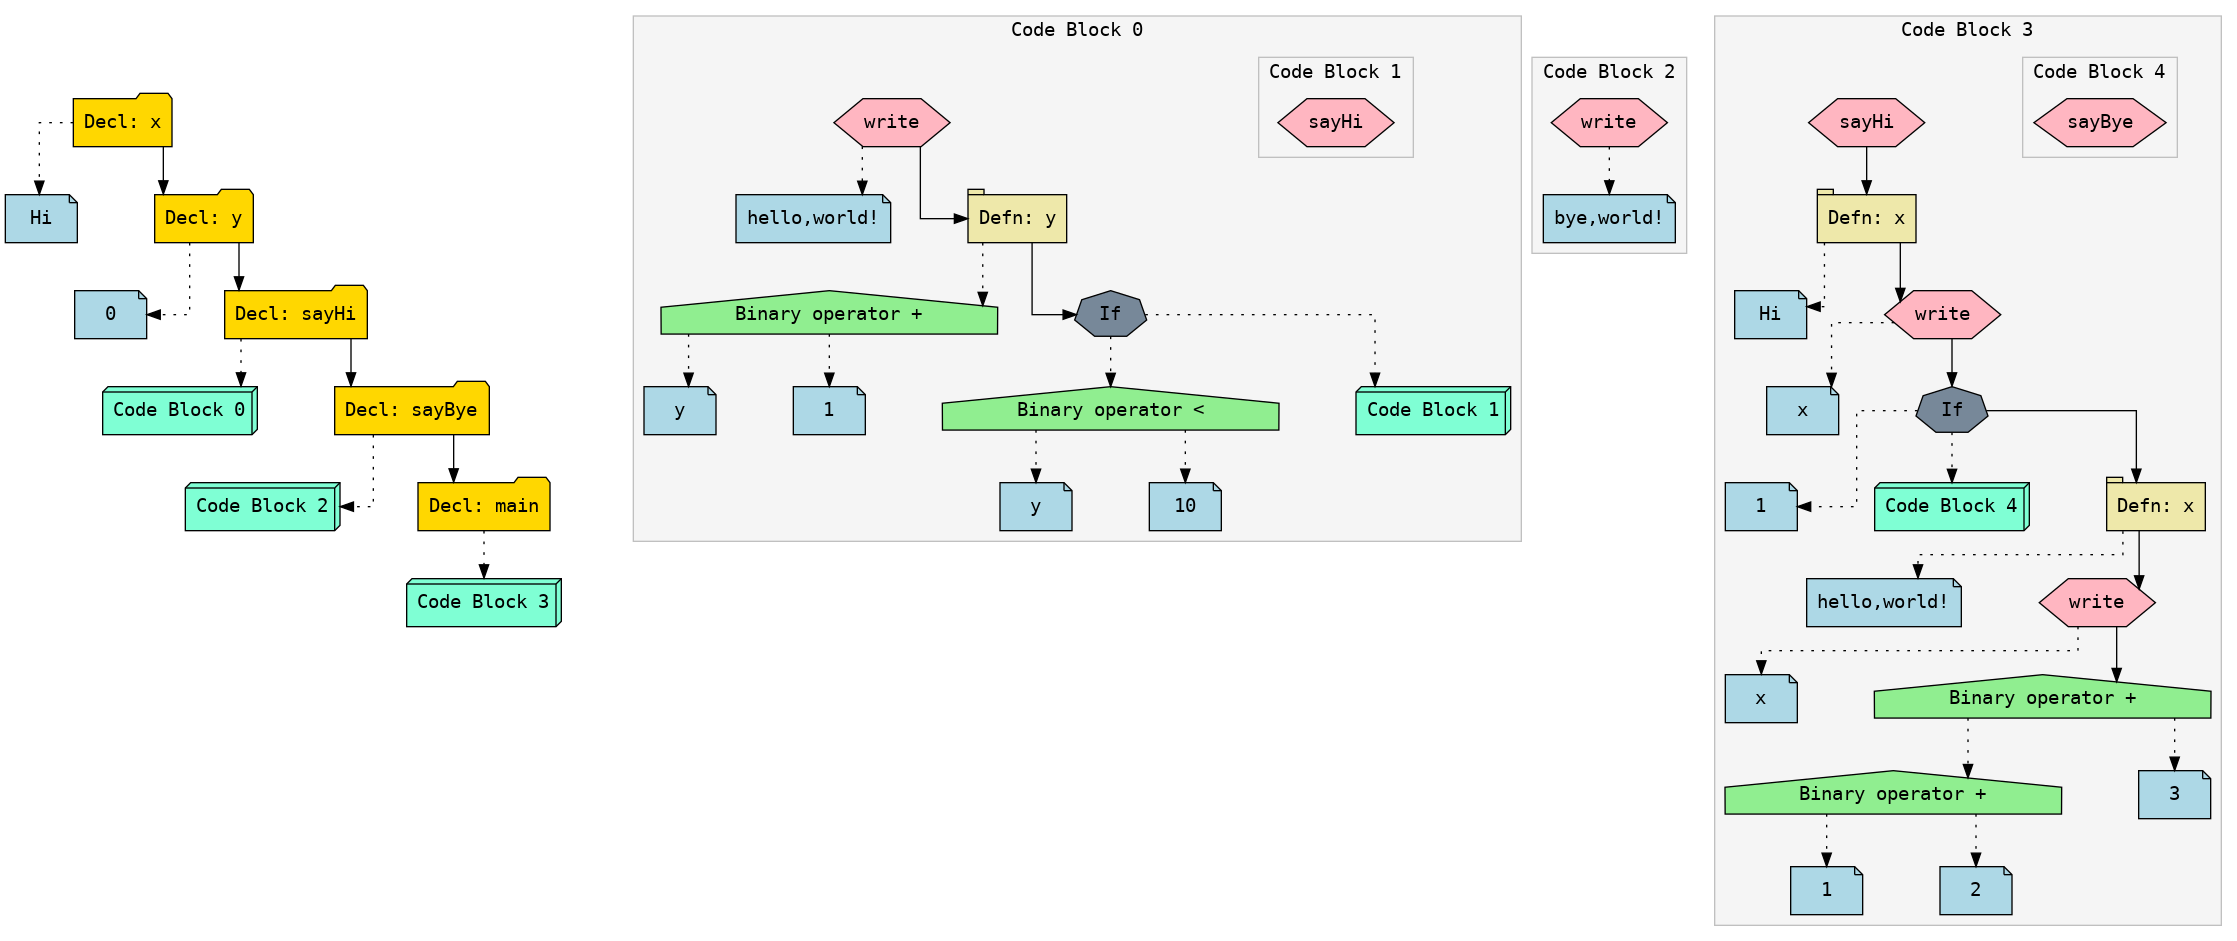
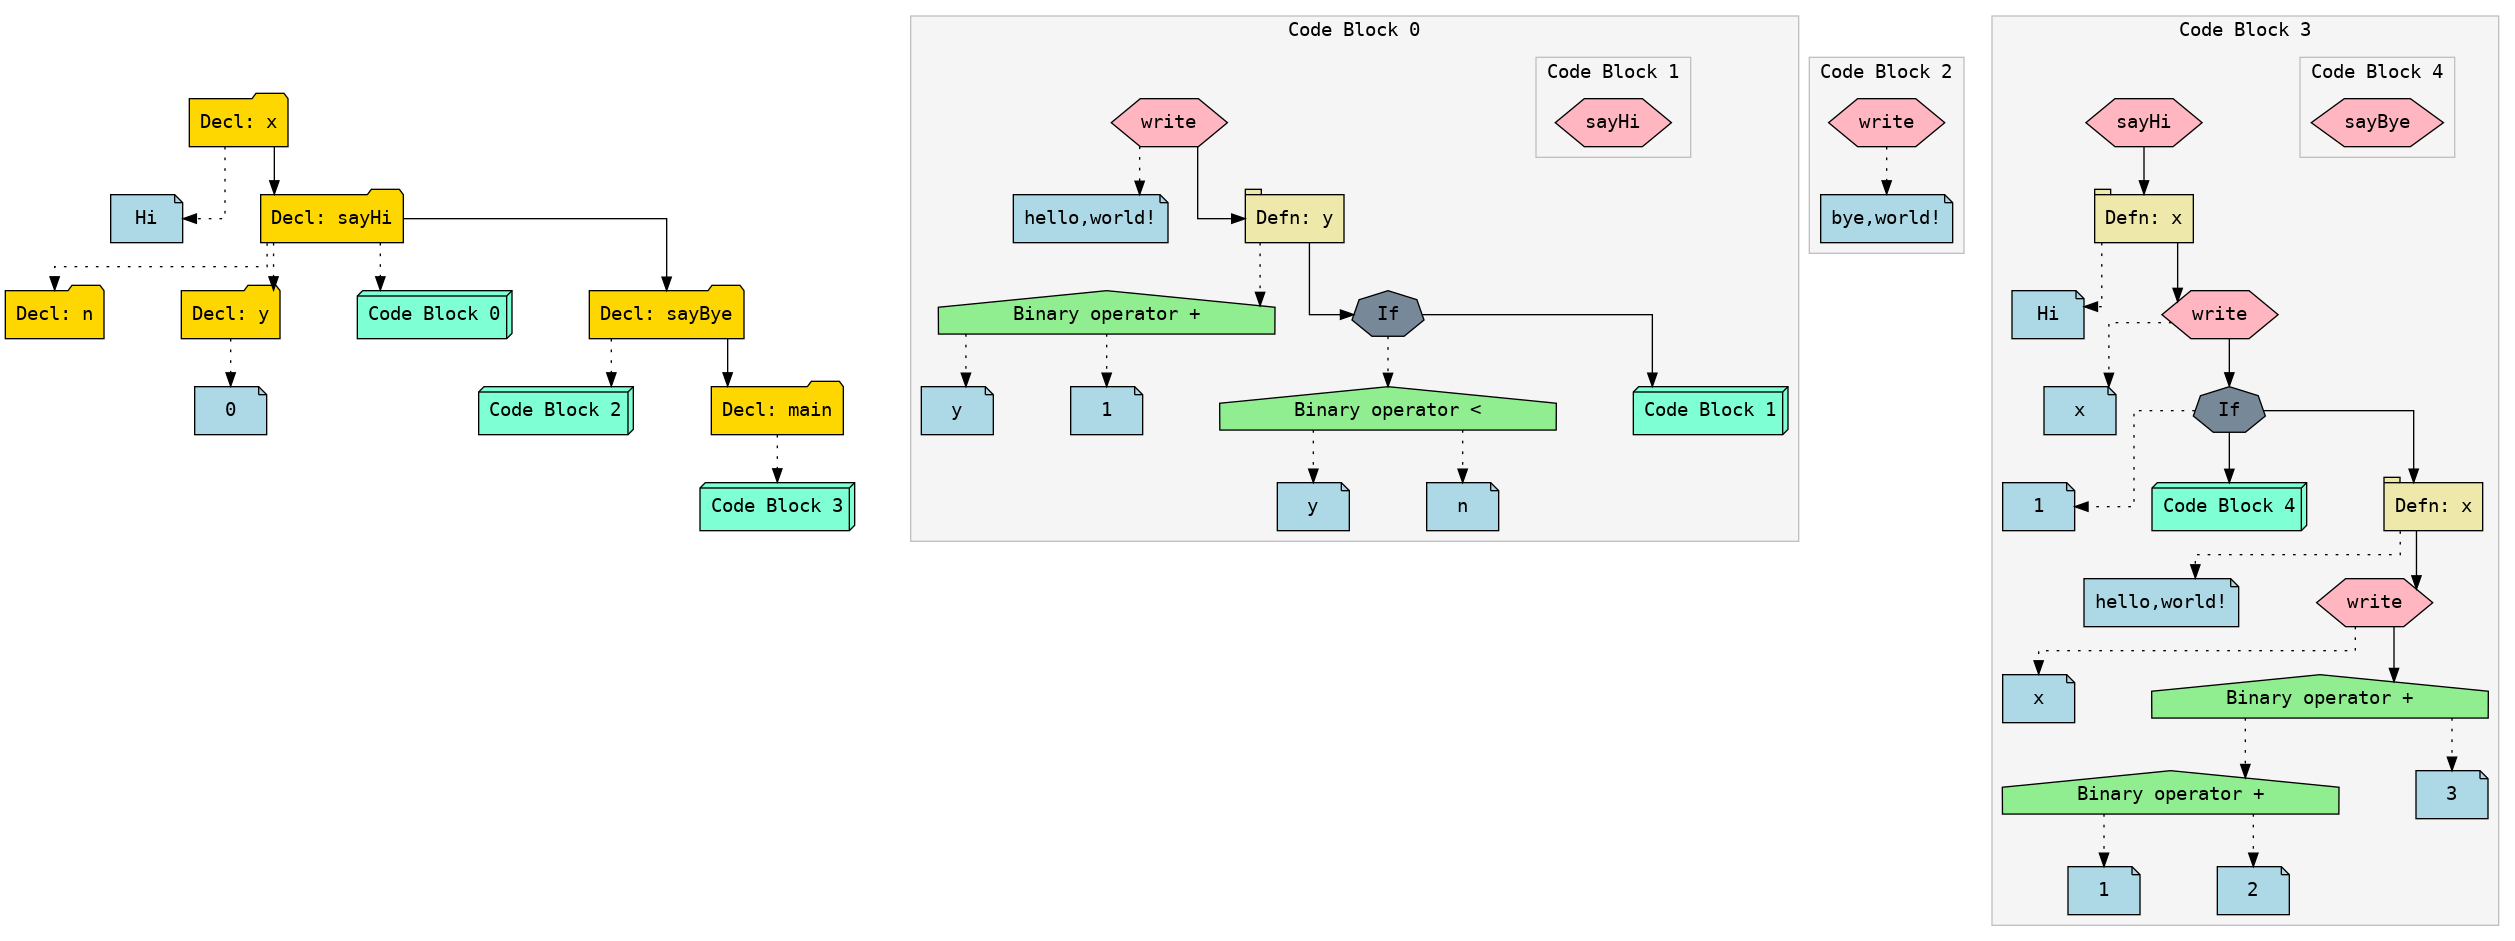
Parsing support for Function args

diff --git a/src/Frontend/Layer_File_AST.c b/src/Frontend/Layer_File_AST.c
@@ -34,7 +34,8 @@ int __STMT_FUNCALL(int id, int *n, int *b, const Funcall *funcall)
 	     arg = arg->next) {
 		int childId = AST_dump_expression(&arg->expr, n, b);
 		if (childId >= 0)
-			print_AST("  Expr_%d -> Expr_%d[style=dotted];\n", id, childId);
+			print_AST("  Expr_%d -> Expr_%d[style=dotted];\n", id,
+				  childId);
 	}
 	return id;
 }
@@ -91,8 +92,10 @@ static int AST_dump_expression(const Expr *expr, int *n, int *b)
 			  bin_opr_get_name(expr->as.bin_opr->type));
 		int child1 = AST_dump_expression(&expr->as.bin_opr->lhs, n, b);
 		int child2 = AST_dump_expression(&expr->as.bin_opr->rhs, n, b);
-		print_AST("  Expr_%d -> Expr_%d[style=dotted];\n", myId, child1);
-		print_AST("  Expr_%d -> Expr_%d[style=dotted];\n", myId, child2);
+		print_AST("  Expr_%d -> Expr_%d[style=dotted];\n", myId,
+			  child1);
+		print_AST("  Expr_%d -> Expr_%d[style=dotted];\n", myId,
+			  child2);
 		return myId;
 	}
 	case EXPR_TYPE_OPEN_CURLY:
@@ -134,11 +137,32 @@ static int AST_dump_statement(const Stmt *stmt, int *n, int *b)
 	case STMT_VAR_DECL: {
 		print_AST(AST("folder", "gold", "Decl: %.*s"), myId,
 			  Str_Fmt(stmt->as.var_decl.name));
+
+		if (stmt->as.var_decl.args)
+			for (int i = 0; i < stmt->as.var_decl.args->count;
+			     i++) {
+				VarDecl decl = stmt->as.var_decl.args->var[i];
+				int argId = (*n)++;
+				print_AST(AST("folder", "gold", "Decl: %.*s"),
+					  argId, Str_Fmt(decl.name));
+				print_AST(
+					"  Expr_%d -> Expr_%d[style=dotted];\n",
+					myId, argId);
+				if (decl.has_init && decl.init != NULL) {
+					int childId = AST_dump_statement(
+						decl.init, n, b);
+					print_AST(
+						"  Expr_%d -> Expr_%d[style=dotted];\n",
+						argId, childId);
+				}
+			}
+
 		if (stmt->as.var_decl.has_init &&
 		    stmt->as.var_decl.init != NULL) {
 			int childId = AST_dump_statement(stmt->as.var_decl.init,
 							 n, b);
-			print_AST("  Expr_%d -> Expr_%d[style=dotted];\n", myId, childId);
+			print_AST("  Expr_%d -> Expr_%d[style=dotted];\n", myId,
+				  childId);
 		}
 		return myId;
 	}
@@ -148,18 +172,20 @@ static int AST_dump_statement(const Stmt *stmt, int *n, int *b)
 		if (stmt->as.var_defn.val != NULL) {
 			int childId =
 				AST_dump_statement(stmt->as.var_defn.val, n, b);
-			print_AST("  Expr_%d -> Expr_%d[style=dotted];\n", myId, childId);
+			print_AST("  Expr_%d -> Expr_%d[style=dotted];\n", myId,
+				  childId);
 		}
 		return myId;
 	}
 	case STMT_CONDITIONAL: {
-		print_AST(AST("septagon", "lightslategrey", "%s"),
-			  myId, (stmt->as.cond.repeat)?"While":"If");
+		print_AST(AST("septagon", "lightslategrey", "%s"), myId,
+			  (stmt->as.cond.repeat) ? "While" : "If");
 		int condId = AST_dump_expression(&stmt->as.cond.cond, n, b);
 		int bodyId =
 			__STMT_BLOCK((*n)++, n, b, stmt->as.cond.body.begin);
-		print_AST("  Expr_%d -> Expr_%d[style=dotted];\n", myId, condId);
-		print_AST("  Expr_%d -> Expr_%d[style=dotted];\n", myId, bodyId);
+		print_AST("  Expr_%d -> Expr_%d[style=dotted];\n", myId,
+			  condId);
+		print_AST("  Expr_%d -> Expr_%d;\n", myId, bodyId);
 		return myId;
 	}
 	case STMT_BLOCK_END:

diff --git a/src/Frontend/Layer_Statement.c b/src/Frontend/Layer_Statement.c
@@ -4,6 +4,8 @@
 #include <Utils/mem_manager.h>
 #include <assert.h>
 
+TypeList *parse_typelist(Line_Context *ctx);
+
 Stmt stmt_check_stmt_conditional(Line_Context *ctx)
 {
 	Stmt result = { 0 };
@@ -62,7 +64,7 @@ VarDecl stmt_parse_var_decl(Line_Context *ctx)
 	(void)token_expect_next(ctx, TOKEN_TYPE_COLON);
 	res.type = token_expect_next(ctx, TOKEN_TYPE_NAME).text;
 	if (compare_str(res.type, STR("func"))) {
-		res.args = parse_funcall_arglist(ctx);
+		res.args = parse_typelist(ctx);
 	}
 	Token nxt = token_peek_next(ctx);
 	if (nxt.type == TOKEN_TYPE_EQUAL) {
@@ -73,6 +75,50 @@ VarDecl stmt_parse_var_decl(Line_Context *ctx)
 	}
 	return res;
 }
+
+TypeList *parse_typelist(Line_Context *ctx)
+{
+	Token token = token_expect_next(ctx, TOKEN_TYPE_OPEN_PAREN);
+	TypeList *list = region_allocate(sizeof(*list));
+	list->count=0;
+
+	update_indent(1);
+	log_to_ctx(ctx, LOG_FORMAT("[IDENTIFICATION]", "[STMT]",
+				   "- Parameters:", ""));
+
+	update_indent(1);
+	token = token_peek_next(ctx);
+	if (token.type == TOKEN_TYPE_CLOSING_PAREN) {
+		token_consume(ctx);
+		log_to_ctx(ctx, LOG_FORMAT("[IDENTIFICATION]", "[STMT]",
+					   " NO ARGS !", ""));
+		update_indent(-2);
+		return NULL;
+	}
+
+	do {
+		list->var[list->count++] = stmt_parse_var_decl(ctx);
+
+		token = token_peek_next(ctx);
+		if (!token_consume(ctx)) {
+			print(ctx, WIN_STDERR, " ERROR: expected %s or %s\n",
+			      token_get_name(TOKEN_TYPE_CLOSING_PAREN),
+			      token_get_name(TOKEN_TYPE_COMMA));
+			exit(1);
+		}
+
+	} while (token.type == TOKEN_TYPE_COMMA);
+
+	if (token.type != TOKEN_TYPE_CLOSING_PAREN) {
+		print(ctx, WIN_STDERR, " ERROR: expected %s\n",
+		      token_get_name(TOKEN_TYPE_CLOSING_PAREN));
+		exit(1);
+	}
+	update_indent(-2);
+
+	return list;
+}
+
 VarDefn stmt_parse_var_defn(Line_Context *ctx)
 {
 	VarDefn res = { 0 };

diff --git a/include/Frontend/Layer_Statement.h b/include/Frontend/Layer_Statement.h
@@ -23,14 +23,19 @@ typedef struct StmtNode StmtNode;
 typedef struct Line_Context Line_Context;
 // typedef struct PatternMatch PatternMatch;
 typedef struct StmtConditional StmtConditional;
-
+typedef struct TypeList TypeList;
 struct VarDecl {
 	String name;
 	String type;
-	FuncallArg *args;
+	TypeList *args;
 
 	Stmt *init;
 	bool has_init;
+};
+
+struct TypeList {
+	VarDecl var[5];
+	int count;
 };
 
 struct VarDefn {

diff --git a/src/Frontend/Layer_File.c b/src/Frontend/Layer_File.c
@@ -78,7 +78,7 @@ Error file_read(const char *file_path, File_Context *file)
 
 	CodeBlock global = codeblock_generate(file);
 	(void)global;
-	IR_generate(&global);
+	// IR_generate(&global);
 	AST_generate(&global, true);
 
 cleanup:
